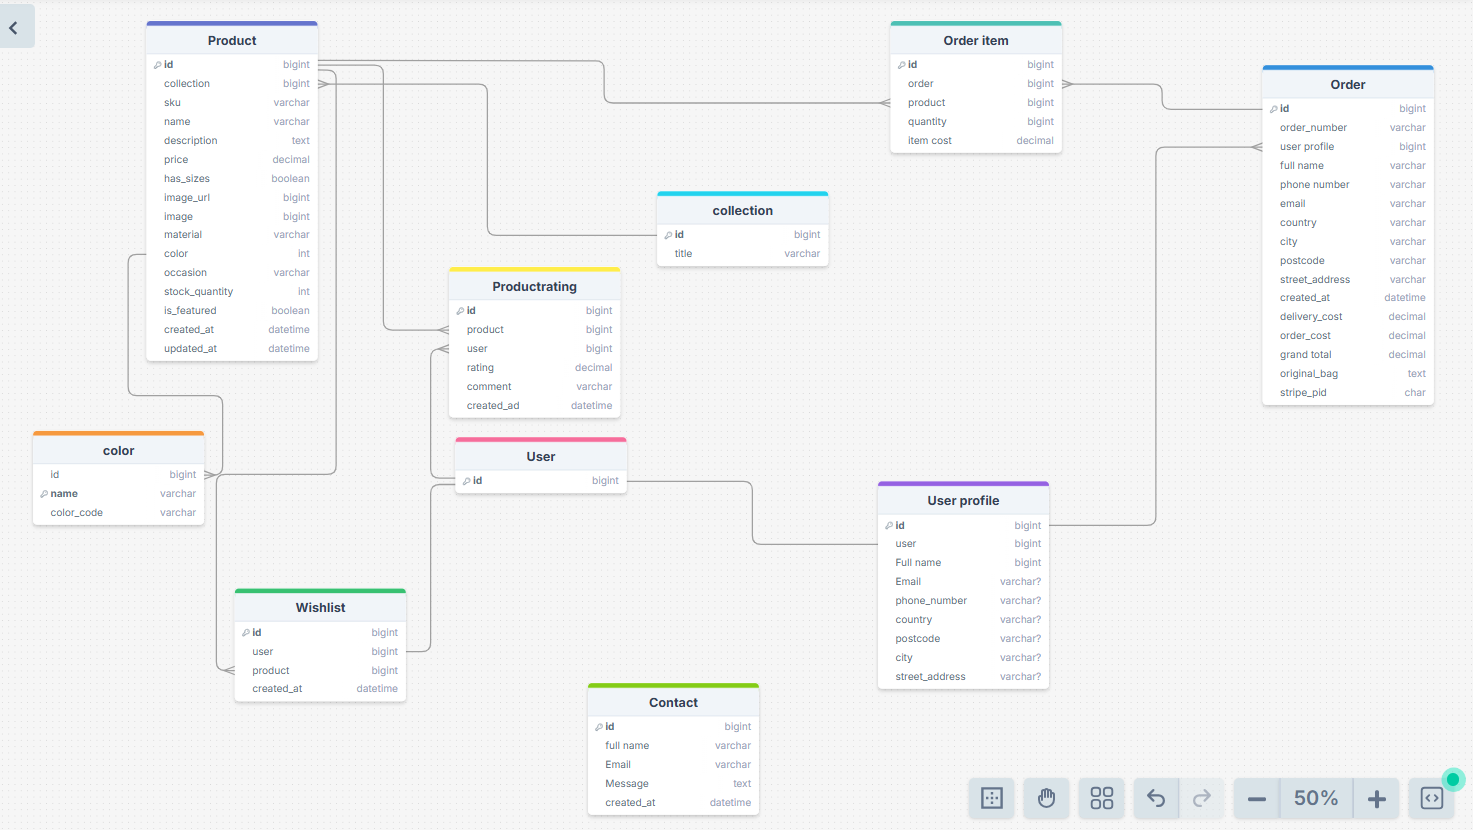
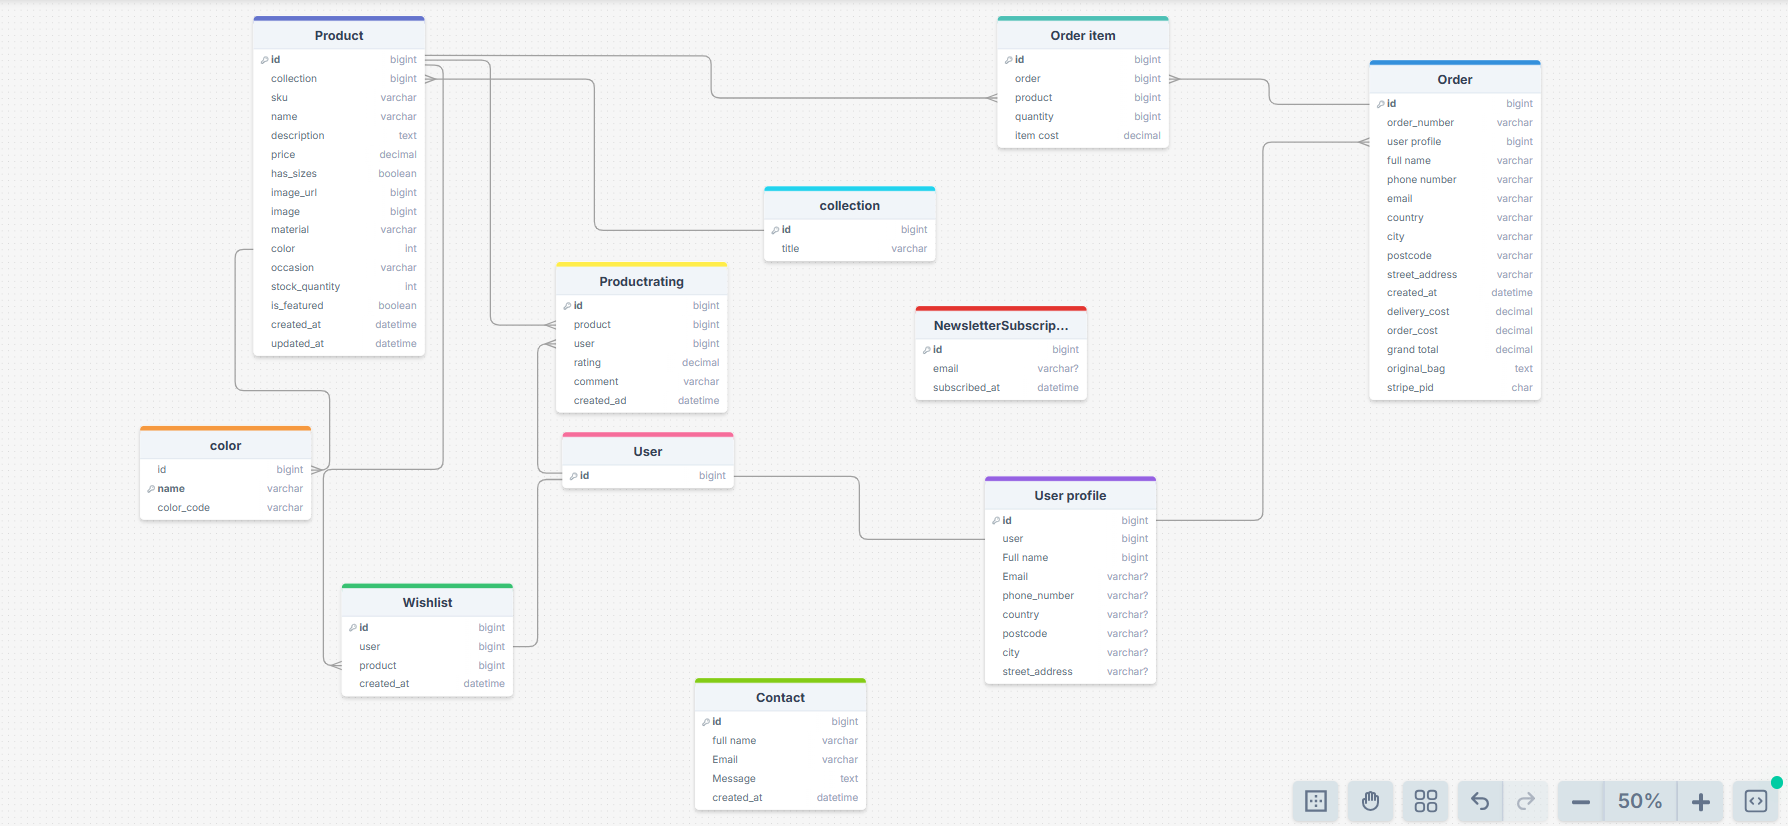
mod: update readme file, remove some social links from base file

diff --git a/templates/base.html b/templates/base.html
@@ -193,12 +193,6 @@
                         <a href="https://www.instagram.com/" class="btn btn-outline-light btn-floating footer-links" target="_blank">
                             <i class="fab fa-instagram"></i>
                         </a>
-                        <a href="https://www.linkedin.com" class="btn btn-outline-light btn-floating footer-links" target="_blank">
-                            <i class="fab fa-linkedin-in"></i>
-                        </a>
-                        <a href="https://github.com/" class="btn btn-outline-light btn-floating footer-links" target="_blank">
-                            <i class="fab fa-github"></i>
-                        </a>
                     </div>
                 </div>
 

diff --git a/README.md b/README.md
@@ -498,9 +498,15 @@ Ayina Couture operates on a Business to Consumer (B2C) model, offering customers
 [Back to Top](#table-of-contents)
 
 ## Marketing Strategy
-- Social Media Marketing: We will leverage popular social media platforms such as Instagram, Facebook, and Pinterest to showcase our unique collections, share behind-the-scenes content, and engage with our community.
+- Facebook Page Marketing: We have created a dedicated Facebook page to promote our brand, engage with our audience, and showcase our latest collections. Through regular posts, exclusive offers, and interactive content, we aim to build a strong community of fashion lovers.
 
-- Email Marketing: Regular email campaigns will keep our customers informed about new product launches, special offers, and cultural stories behind our designs. Personalized newsletters and promotions will help build customer loyalty and encourage repeat purchases.
+![Facebook Page](static/images/readme_images/facebook_page1.png)
+
+![Facebook Page](static/images/readme_images/facebook_page2.png)
+
+- Newsletter Marketing: We have integrated a newsletter subscription feature on our website to keep our customers informed about the latest product launches, exclusive offers, and the inspiration behind our designs.
+
+![Newsletter](static/images/readme_images/newsletter.png)
 
 <br>
 
